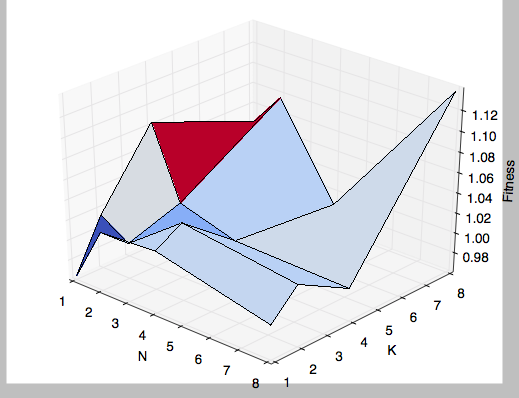
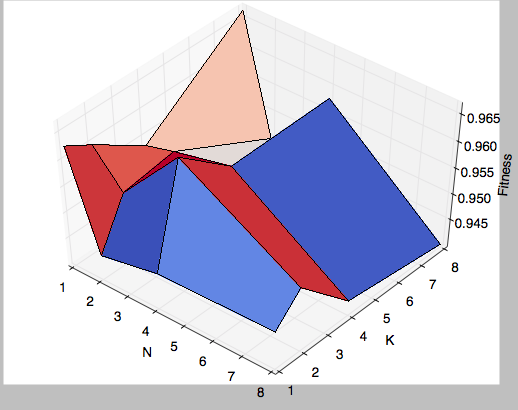
Upload haystack and darwin tuning plots

diff --git a/report.html b/report.html
@@ -33,7 +33,7 @@ The 3D graphs depict how the fitness after 25000 generations varies with N and K
 <td>80&times;80 pixels<br><img src="darwin.jpg"></td>
 <td>P=100, N=1, K=1<br><img src="darwin/darwin_anim.png"></td>
 <td><img src="darwin_fitness.png"></td>
-<td><img width=400 height=400 src="darwin_tuning.png"><br>N=8, K=8 gave the best result<td>
+<td><img width=400 height=400 src="darwin_tuning.png"><br>N=1, K=8 gave the best result<td>
 </tr>
 
 <tr>

diff --git a/Plot.py b/Plot.py
@@ -119,7 +119,7 @@ class Plot( object ):
          
     
 #Plot.plot_data( "mjchao.out" )
-Plot.plot_tuning( "mona_lisa_tuning.out" )
+Plot.plot_tuning( "haystack_tuning.out" )
 #Plot.plot_tuning_average([ "darwin_tuning.out" , "haystack_tuning.out" , "michigan_tuning.out" , "mona_lisa_tuning.out" , "turing_tuning.out"] )
     
         
